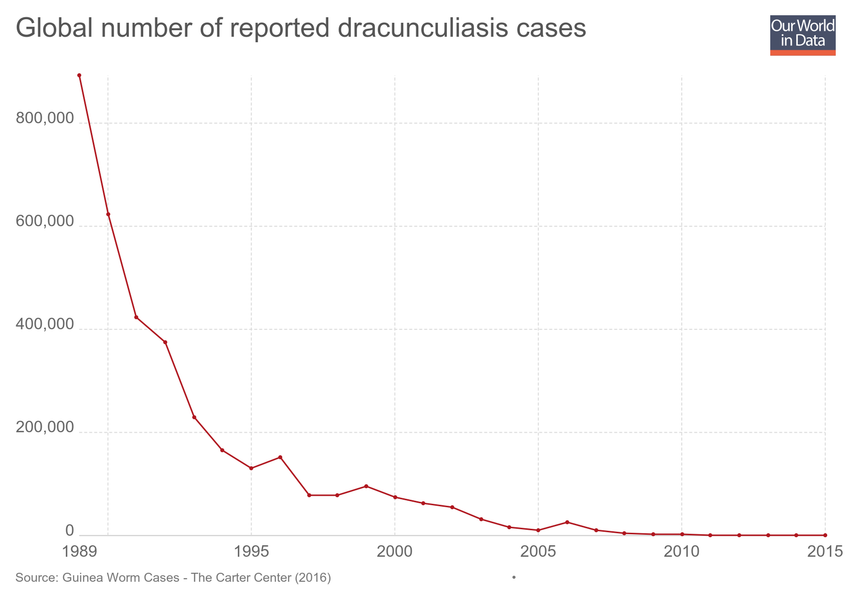
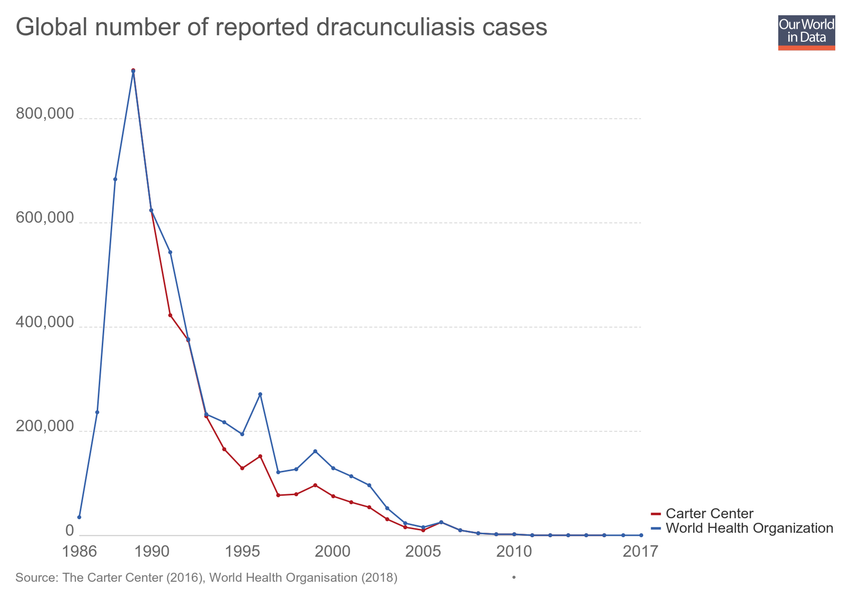
Updating chart global-number-of-reported-dracunculiasis-cases

diff --git a/grapher/global-number-of-reported-dracunculiasis-cases.html b/grapher/global-number-of-reported-dracunculiasis-cases.html
@@ -1,4 +1,4 @@
-<!doctype html><html><head><meta name="viewport" content="width=device-width, initial-scale=1" /><title>Global number of reported dracunculiasis cases - Our World in Data</title><meta name="description" content="An interactive visualization from Our World in Data." /><link rel="canonical" href="https://ourworldindata.org/grapher/global-number-of-reported-dracunculiasis-cases" /><meta property="fb:app_id" content="1149943818390250" /><meta property="og:url" content="https://ourworldindata.org/grapher/global-number-of-reported-dracunculiasis-cases" /><meta property="og:title" content="Global number of reported dracunculiasis cases" /><meta property="og:description" content="An interactive visualization from Our World in Data." /><meta property="og:image" content="https://ourworldindata.org/grapher/exports/global-number-of-reported-dracunculiasis-cases.png?v=2" /><meta property="og:image:width" content="850" /><meta property="og:image:height" content="600" /><meta property="og:site_name" content="Our World in Data" /><meta name="twitter:card" content="summary_large_image" /><meta name="twitter:site" content="@OurWorldInData" /><meta name="twitter:creator" content="@OurWorldInData" /><meta name="twitter:title" content="Global number of reported dracunculiasis cases" /><meta name="twitter:description" content="An interactive visualization from Our World in Data." /><meta name="twitter:image" content="https://ourworldindata.org/grapher/exports/global-number-of-reported-dracunculiasis-cases.png?v=2" /><style>
+<!doctype html><html><head><meta name="viewport" content="width=device-width, initial-scale=1" /><title>Global number of reported dracunculiasis cases - Our World in Data</title><meta name="description" content="An interactive visualization from Our World in Data." /><link rel="canonical" href="https://ourworldindata.org/grapher/global-number-of-reported-dracunculiasis-cases" /><meta property="fb:app_id" content="1149943818390250" /><meta property="og:url" content="https://ourworldindata.org/grapher/global-number-of-reported-dracunculiasis-cases" /><meta property="og:title" content="Global number of reported dracunculiasis cases" /><meta property="og:description" content="An interactive visualization from Our World in Data." /><meta property="og:image" content="https://ourworldindata.org/grapher/exports/global-number-of-reported-dracunculiasis-cases.png?v=4" /><meta property="og:image:width" content="850" /><meta property="og:image:height" content="600" /><meta property="og:site_name" content="Our World in Data" /><meta name="twitter:card" content="summary_large_image" /><meta name="twitter:site" content="@OurWorldInData" /><meta name="twitter:creator" content="@OurWorldInData" /><meta name="twitter:title" content="Global number of reported dracunculiasis cases" /><meta name="twitter:description" content="An interactive visualization from Our World in Data." /><meta name="twitter:image" content="https://ourworldindata.org/grapher/exports/global-number-of-reported-dracunculiasis-cases.png?v=4" /><style>
         html, body {
             height: 100%;
             margin: 0;
@@ -20,8 +20,8 @@
         }
     </style><noscript><style>
                     figure { display: none !important; }
-                </style></noscript><link rel="stylesheet" href="https://ourworldindata.org/grapher/assets/commons.bundle.019a92548339820130b6.css" /><link rel="preload" href="/grapher/data/variables/305.json?v=2" as="fetch" crossorigin /></head><body class="singleChart"><figure data-grapher-src="/grapher/global-number-of-reported-dracunculiasis-cases"></figure><noscript id="fallback"><img src="/grapher/exports/global-number-of-reported-dracunculiasis-cases.svg" /><p>Interactive visualization requires JavaScript</p></noscript><script src="https://cdn.polyfill.io/v2/polyfill.min.js?features=es6,fetch"></script><script src="https://ourworldindata.org/grapher/assets/commons.bundle.019a92548339820130b6.js"></script><script src="https://ourworldindata.org/grapher/assets/charts.bundle.dcf65b68eddaba4c6a58.js"></script><script>
-        var jsonConfig = {"id":224,"map":{"projection":"World","targetYear":1989,"variableId":305,"timeTolerance":1,"baseColorScheme":"BuGn","colorSchemeInvert":false,"colorSchemeLabels":[],"colorSchemeValues":[],"defaultProjection":"World","legendDescription":"","customColorsActive":false,"colorSchemeMinValue":0,"customNumericColors":[],"customCategoryColors":[],"customCategoryLabels":[],"customHiddenCategories":[]},"tab":"chart","slug":"global-number-of-reported-dracunculiasis-cases","type":"LineChart","title":"Global number of reported dracunculiasis cases","xAxis":{"scaleType":"linear"},"yAxis":{"min":0,"scaleType":"linear","labelDistance":-10,"canChangeScaleType":true},"version":2,"hasMapTab":false,"originUrl":"https://ourworldindata.org/eradication-of-diseases/","stackMode":null,"dimensions":[{"display":{"name":"Guinea Worm Cases (Carter Center)","unit":"Individual cases","tolerance":5,"isProjection":false},"property":"y","targetYear":2000,"variableId":305}],"entityType":"country","hideLegend":true,"hasChartTab":true,"isPublished":true,"selectedData":[{"color":"#B0171F","index":0,"entityId":355}],"internalNotes":"","addCountryMode":"disabled","hideTitleAnnotation":true};
+                </style></noscript><link rel="stylesheet" href="https://ourworldindata.org/grapher/assets/commons.bundle.019a92548339820130b6.css" /><link rel="preload" href="/grapher/data/variables/305+67406.json?v=4" as="fetch" crossorigin /></head><body class="singleChart"><figure data-grapher-src="/grapher/global-number-of-reported-dracunculiasis-cases"></figure><noscript id="fallback"><img src="/grapher/exports/global-number-of-reported-dracunculiasis-cases.svg" /><p>Interactive visualization requires JavaScript</p></noscript><script src="https://cdn.polyfill.io/v2/polyfill.min.js?features=es6,fetch"></script><script src="https://ourworldindata.org/grapher/assets/commons.bundle.019a92548339820130b6.js"></script><script src="https://ourworldindata.org/grapher/assets/charts.bundle.dcf65b68eddaba4c6a58.js"></script><script>
+        var jsonConfig = {"id":224,"map":{"projection":"World","targetYear":1989,"variableId":305,"timeTolerance":1,"baseColorScheme":"BuGn","colorSchemeInvert":false,"colorSchemeLabels":[],"colorSchemeValues":[],"legendDescription":"","customColorsActive":false,"colorSchemeMinValue":0,"customNumericColors":[],"customCategoryColors":[],"customCategoryLabels":[],"customHiddenCategories":[]},"tab":"chart","slug":"global-number-of-reported-dracunculiasis-cases","type":"LineChart","title":"Global number of reported dracunculiasis cases","xAxis":{"scaleType":"linear"},"yAxis":{"min":0,"scaleType":"linear","labelDistance":-10,"canChangeScaleType":true},"version":4,"hasMapTab":false,"originUrl":"https://ourworldindata.org/eradication-of-diseases/","stackMode":null,"dimensions":[{"display":{"name":"Carter Center","unit":"cases","tolerance":5,"isProjection":false},"property":"y","targetYear":2000,"variableId":305},{"display":{"name":"World Health Organization","unit":"cases"},"property":"y","variableId":67406}],"entityType":"country","sourceDesc":"The Carter Center (2016), World Health Organisation (2018)","hasChartTab":true,"isPublished":true,"selectedData":[{"color":"#B0171F","index":0,"entityId":355},{"color":"#3360a9","index":1,"entityId":355}],"internalNotes":"","addCountryMode":"change-country","hideTitleAnnotation":true};
         var figure = document.getElementsByTagName("figure")[0];
         try {
             window.App = {};
